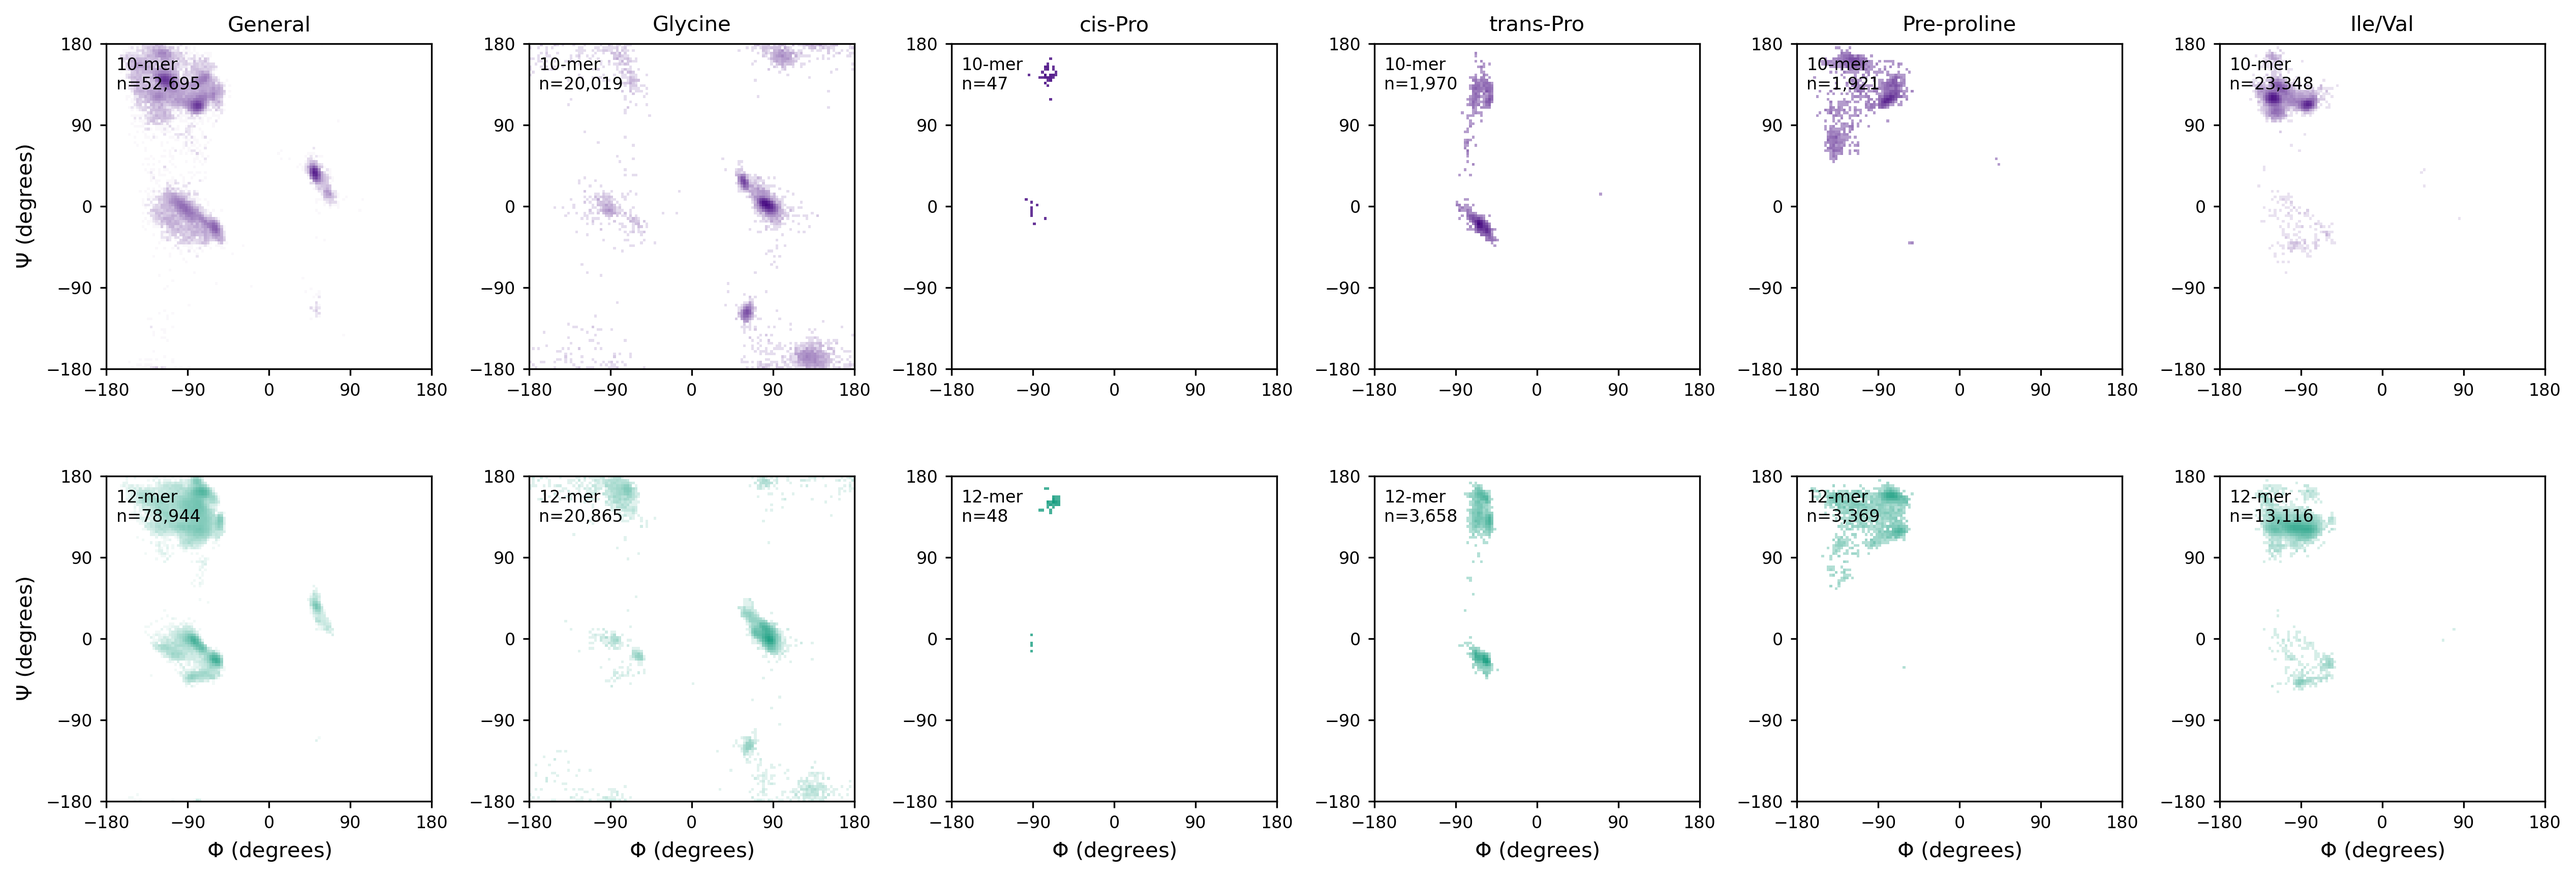
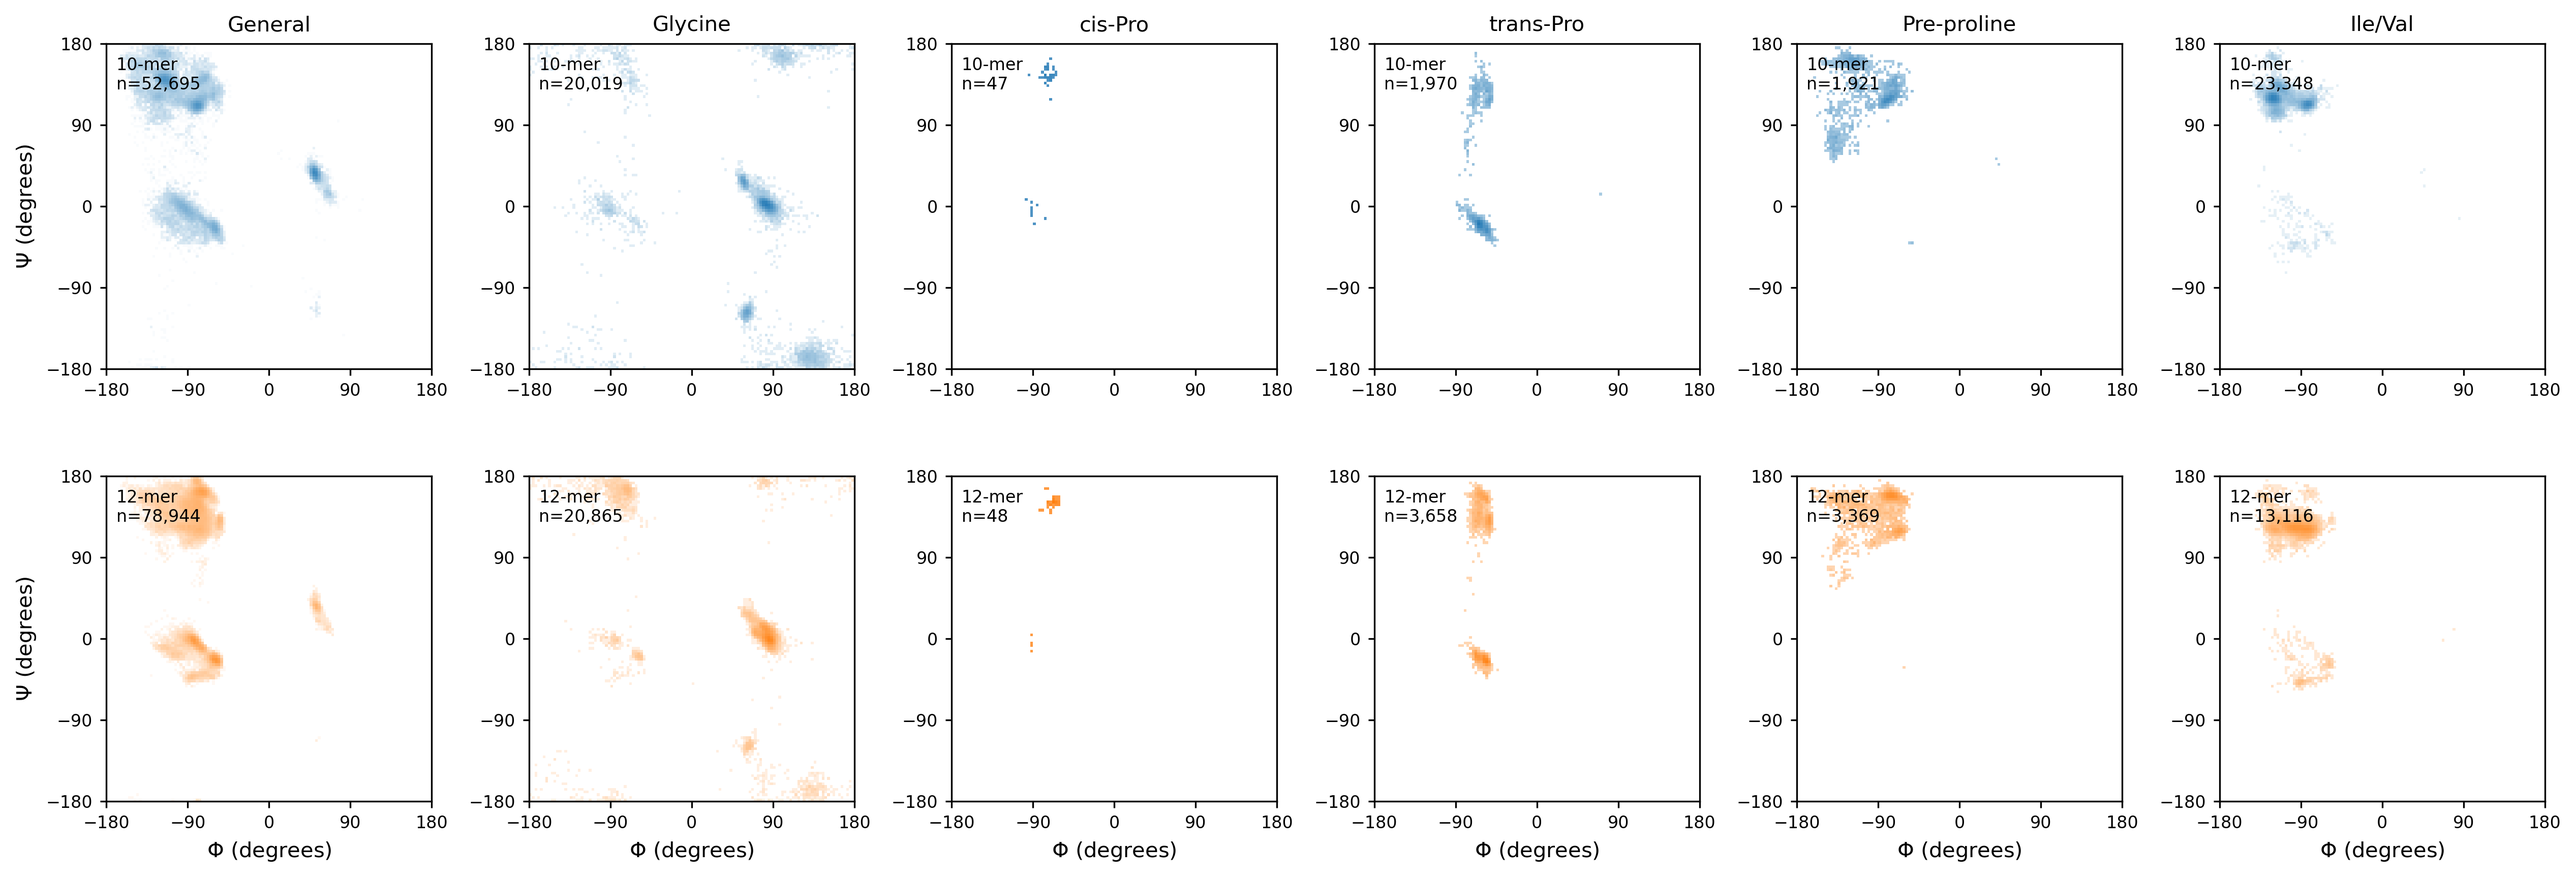
Use default colors for Ramachandran plots

diff --git a/experiments/007_RFD3_macrocycles/scripts/plot_macrocycle_ramachandran.py b/experiments/007_RFD3_macrocycles/scripts/plot_macrocycle_ramachandran.py
@@ -85,9 +85,9 @@ RESIDUE_CLASS_LABELS = {
     "isoleucine or valine": "Ile/Val",
 }
 
-LENGTH_COLORS = {
-    10: "#3f007d",
-    12: "#149c7e",
+LENGTH_COLOR_INDICES = {
+    10: 0,
+    12: 1,
 }
 
 
@@ -257,7 +257,9 @@ def probability_density(
 def make_length_colormap(peptide_length: int) -> LinearSegmentedColormap:
     """Create a white-to-color map for one peptide length."""
 
-    final_color = LENGTH_COLORS.get(peptide_length, "#333333")
+    default_colors = plt.rcParams["axes.prop_cycle"].by_key()["color"]
+    color_index = LENGTH_COLOR_INDICES.get(peptide_length, 0)
+    final_color = default_colors[color_index % len(default_colors)]
 
     return LinearSegmentedColormap.from_list(
         f"length_{peptide_length}",
@@ -421,14 +423,14 @@ def plot_all_residues(
     )
 
     figure, axes = plt.subplots(
-        nrows=len(peptide_lengths),
-        ncols=1,
-        figsize=(4.0, 3.6 * len(peptide_lengths)),
+        nrows=1,
+        ncols=len(peptide_lengths),
+        figsize=(4.0 * len(peptide_lengths), 3.6),
         squeeze=False,
     )
 
-    for row_index, peptide_length in enumerate(peptide_lengths):
-        axis = axes[row_index, 0]
+    for column_index, peptide_length in enumerate(peptide_lengths):
+        axis = axes[0, column_index]
         phi, _ = populations[peptide_length]
         density, phi_edges, psi_edges = histograms[peptide_length]
 
@@ -448,8 +450,8 @@ def plot_all_residues(
 
         format_ramachandran_axis(
             axis,
-            show_x_label=(row_index == len(peptide_lengths) - 1),
-            show_y_label=True,
+            show_x_label=True,
+            show_y_label=(column_index == 0),
         )
 
     figure.tight_layout()
